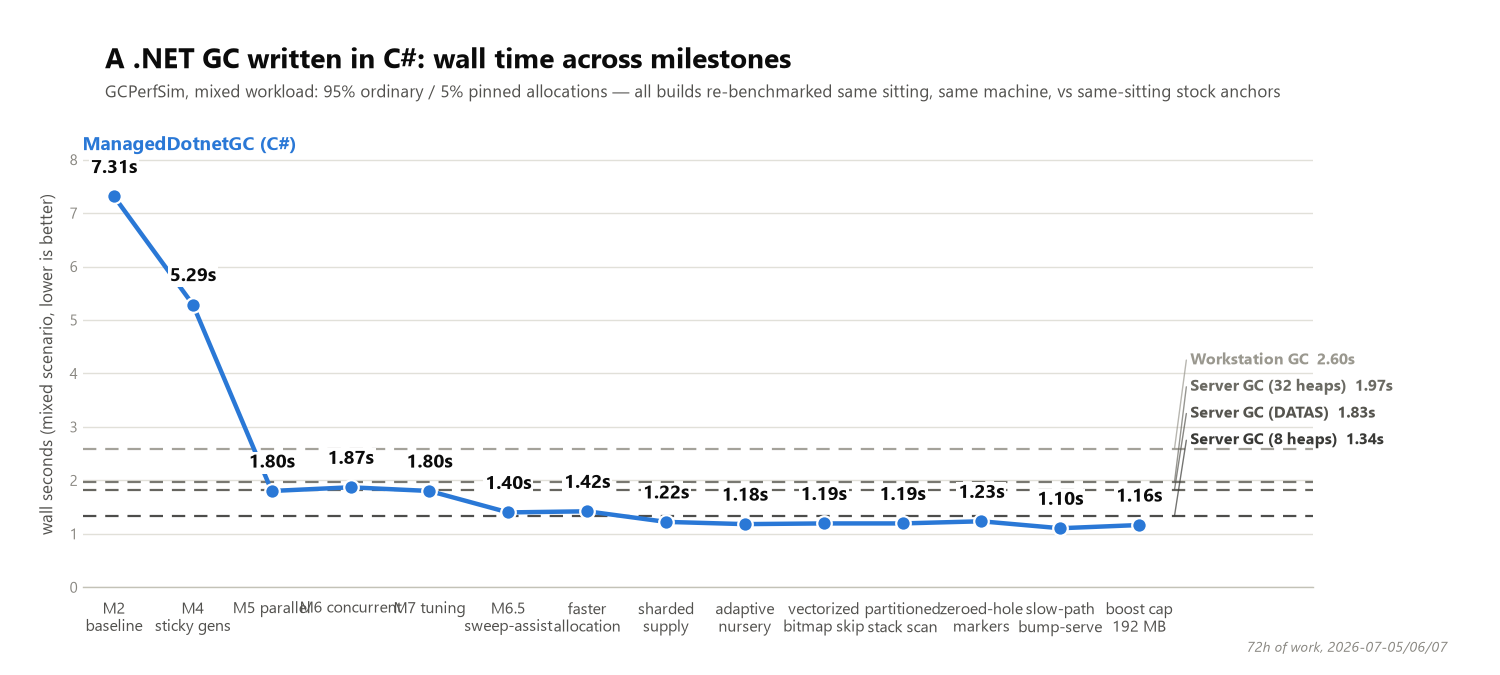
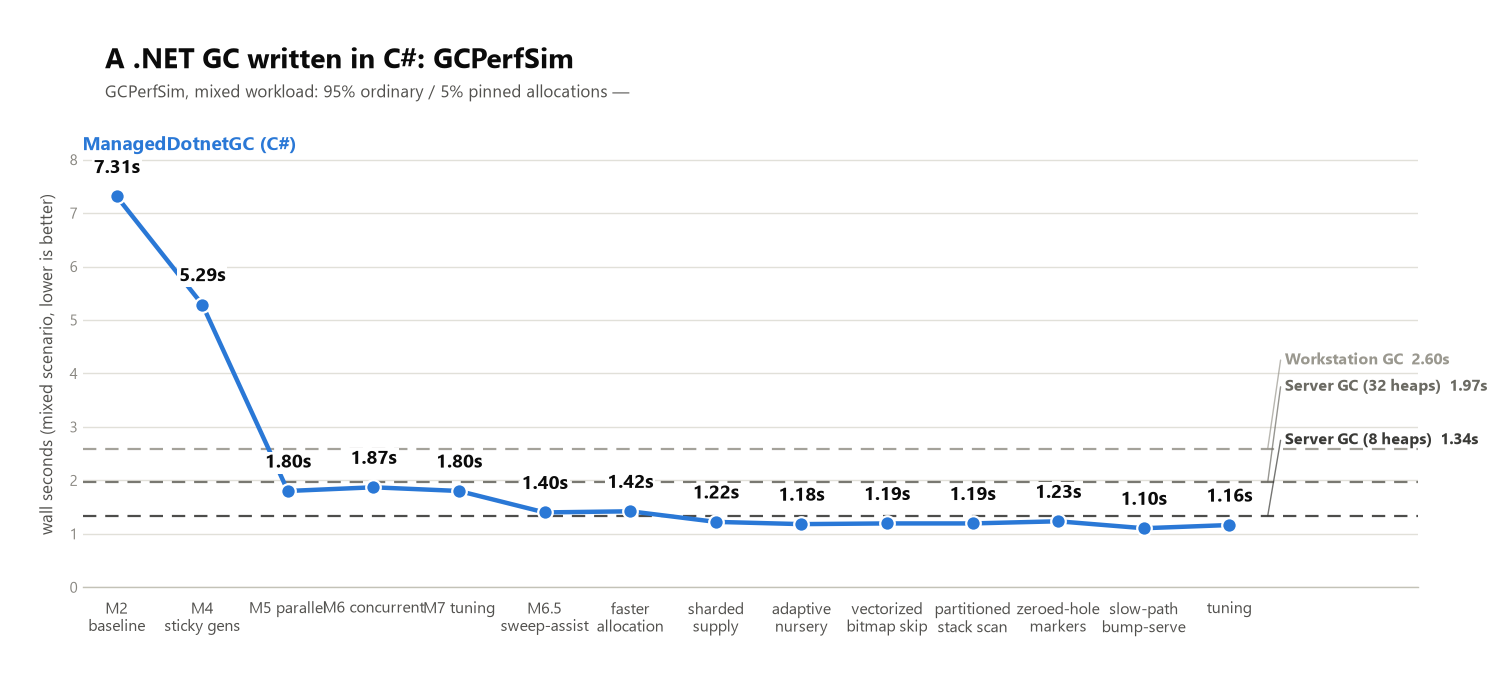
results: manual tweaks to milestone chart scripts and images

diff --git a/experiments/results/2026-07-07-fortunes-milestone-graph/plot_fortunes_rps.py b/experiments/results/2026-07-07-fortunes-milestone-graph/plot_fortunes_rps.py
@@ -38,7 +38,7 @@ milestones = [
     # anchor (83,798 — NOT the 88,057 cluster above, a different sitting) come from
     # that later sitting; rps is plotted on the hero line as reported (80,408) rather
     # than re-normalized against the earlier cluster.
-    ("boost cap\n192 MB", 80408),
+    ("tuning", 80408),
 ]
 
 # (label, line y, explicit label y). The four stock anchors are clustered within
@@ -49,7 +49,7 @@ milestones = [
 # its neighbor label.
 stock_refs = [
     ("Server GC (8 heaps)", 88057, 106000, "#3a3a37"),
-    ("Server GC (DATAS)", 86736, 101000, "#55544e"),
+    #("Server GC (DATAS)", 86736, 101000, "#55544e"),
     ("Server GC (32 heaps)", 80309, 96000, "#6b6a63"),
     ("Workstation GC", 76822, 91000, "#9a988f"),
 ]
@@ -67,7 +67,7 @@ plt.rcParams["font.family"] = font_family
 
 fig_w, fig_h, dpi = 15.0, 6.75, 100
 fig = plt.figure(figsize=(fig_w, fig_h), dpi=dpi, facecolor="white")
-ax = fig.add_axes([0.055, 0.13, 0.82, 0.66])  # room for title block + right-edge ref labels
+ax = fig.add_axes([0.055, 0.13, 0.89, 0.66])  # room for title block + right-edge ref labels
 ax.set_facecolor("white")
 
 xs = list(range(len(milestones)))
@@ -137,16 +137,12 @@ ax.text(-0.4, ymax * 0.99, "ManagedDotnetGC (C#)",
         color=MAIN_COLOR, fontsize=13.5, fontweight="bold", ha="left", va="top")
 
 # ---- title block ----
-fig.text(0.07, 0.93, "A .NET GC written in C#: web-workload throughput across milestones",
+fig.text(0.07, 0.93, "A .NET GC written in C# - Throughput",
           fontsize=20, fontweight="bold", color=INK, ha="left", va="top")
 fig.text(0.07, 0.875,
           "TechEmpower Fortunes (ASP.NET MVC + EF Core, PostgreSQL) — 256 connections, "
-          "median of 3×15 s runs, all builds + stock anchors benched in one sitting",
+          "median of 3×15 s runs",
           fontsize=12.5, color=SECONDARY_INK, ha="left", va="top")
-
-# ---- small annotation ----
-fig.text(0.965, 0.03, "72h of work, 2026-07-05/06/07", fontsize=10, color=MUTED,
-          ha="right", va="bottom", style="italic")
 
 fig.savefig(OUT_PNG, dpi=dpi, facecolor="white")
 print("saved", OUT_PNG)

diff --git a/experiments/results/2026-07-07-fortunes-milestone-graph/plot_fortunes_ws.py b/experiments/results/2026-07-07-fortunes-milestone-graph/plot_fortunes_ws.py
@@ -31,7 +31,7 @@ milestones = [
     # so it's capped — WS drops another ~300 MB, now below that sitting's own
     # stock-h8 anchor (731 MB, not the 726 MB in the cluster above — a different
     # sitting).
-    ("boost cap\n192 MB", 683),
+    ("tuning", 683),
 ]
 
 # (label, line y, explicit label y). Unlike the wall/RPS charts the four anchors are
@@ -46,7 +46,7 @@ stock_refs = [
     # point's "990 MB" annotation, and 1550 sits in open space clear of both the
     # hero tail and the h32 label above it.
     ("Server GC (8 heaps)", 726, 1550, "#3a3a37"),
-    ("Server GC (DATAS)", 280, 430, "#55544e"),
+    #("Server GC (DATAS)", 280, 430, "#55544e"),
     ("Workstation GC", 197, 60, "#9a988f"),
 ]
 
@@ -63,7 +63,7 @@ plt.rcParams["font.family"] = font_family
 
 fig_w, fig_h, dpi = 15.0, 6.75, 100
 fig = plt.figure(figsize=(fig_w, fig_h), dpi=dpi, facecolor="white")
-ax = fig.add_axes([0.055, 0.13, 0.82, 0.66])  # room for title block + right-edge ref labels
+ax = fig.add_axes([0.055, 0.13, 0.89, 0.66])  # room for title block + right-edge ref labels
 ax.set_facecolor("white")
 
 xs = list(range(len(milestones)))
@@ -123,16 +123,12 @@ ax.text(-0.4, ymax * 0.99, "ManagedDotnetGC (C#)",
         color=MAIN_COLOR, fontsize=13.5, fontweight="bold", ha="left", va="top")
 
 # ---- title block ----
-fig.text(0.07, 0.93, "The same GC's memory: web-workload working set across milestones",
+fig.text(0.07, 0.93, "A .NET GC written in C# - Peak Working Set",
           fontsize=20, fontweight="bold", color=INK, ha="left", va="top")
 fig.text(0.07, 0.875,
           "TechEmpower Fortunes (ASP.NET MVC + EF Core, PostgreSQL) — 256 connections, "
-          "median of 3×15 s runs, all builds + stock anchors benched in one sitting",
+          "median of 3×15 s runs",
           fontsize=12.5, color=SECONDARY_INK, ha="left", va="top")
-
-# ---- small annotation ----
-fig.text(0.965, 0.03, "72h of work, 2026-07-05/06/07", fontsize=10, color=MUTED,
-          ha="right", va="bottom", style="italic")
 
 fig.savefig(OUT_PNG, dpi=dpi, facecolor="white")
 print("saved", OUT_PNG)

diff --git a/experiments/results/2026-07-06-milestone-graph/plot_milestones.py b/experiments/results/2026-07-06-milestone-graph/plot_milestones.py
@@ -23,13 +23,12 @@ milestones = [
     ("partitioned\nstack scan", 1.194),
     ("zeroed-hole\nmarkers", 1.234),
     ("slow-path\nbump-serve", 1.104),
-    ("boost cap\n192 MB", 1.164),
+    ("tuning", 1.164),
 ]
 
 stock_refs = [
     ("Workstation GC", 2.595, "#9a988f"),
     ("Server GC (32 heaps)", 1.970, "#6b6a63"),
-    ("Server GC (DATAS)", 1.827, "#55544e"),
     ("Server GC (8 heaps)", 1.338, "#3a3a37"),
 ]
 
@@ -46,7 +45,7 @@ plt.rcParams["font.family"] = font_family
 
 fig_w, fig_h, dpi = 15.0, 6.75, 100
 fig = plt.figure(figsize=(fig_w, fig_h), dpi=dpi, facecolor="white")
-ax = fig.add_axes([0.055, 0.13, 0.82, 0.66])  # leave room for title block + right-edge ref labels
+ax = fig.add_axes([0.055, 0.13, 0.89, 0.66])  # leave room for title block + right-edge ref labels
 ax.set_facecolor("white")
 
 xs = list(range(len(milestones)))
@@ -75,7 +74,6 @@ line_end_x = len(milestones) - 1 + 0.45
 stock_label_y = {
     "Workstation GC": 4.25,
     "Server GC (32 heaps)": 3.75,
-    "Server GC (DATAS)": 3.25,
     "Server GC (8 heaps)": 2.75,
 }
 
@@ -124,16 +122,11 @@ ax.text(-0.4, ys[0] + label_offset + (ymax - ymin) * 0.05, "ManagedDotnetGC (C#)
         color=MAIN_COLOR, fontsize=13.5, fontweight="bold", ha="left", va="bottom")
 
 # ---- title block ----
-fig.text(0.07, 0.93, "A .NET GC written in C#: wall time across milestones",
+fig.text(0.07, 0.93, "A .NET GC written in C#: GCPerfSim",
           fontsize=20, fontweight="bold", color=INK, ha="left", va="top")
 fig.text(0.07, 0.875,
-          "GCPerfSim, mixed workload: 95% ordinary / 5% pinned allocations — "
-          "all builds re-benchmarked same sitting, same machine, vs same-sitting stock anchors",
+          "GCPerfSim, mixed workload: 95% ordinary / 5% pinned allocations — ",
           fontsize=12.5, color=SECONDARY_INK, ha="left", va="top")
-
-# ---- small annotation ----
-fig.text(0.965, 0.03, "72h of work, 2026-07-05/06/07", fontsize=10, color=MUTED,
-          ha="right", va="bottom", style="italic")
 
 fig.savefig(OUT_PNG, dpi=dpi, facecolor="white")
 print("saved", OUT_PNG)
